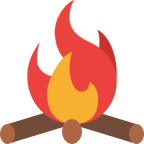
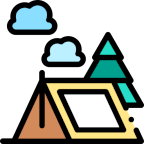
사이드바 시각 수정 — 캠프파이어 일러스트 교체 + 마스킹 해제 취소선 제거 (#82)
* 앱 홈 화면과 확장 사이드바 이미지를 캠프파이어 일러스트로 교체

두 자리는 아이콘 마크를 224/144px 로 확대해 쓰고 있었다. 마크는 16px 트레이까지
견디려고 단순화한 그림이라 100px 안팎으로 키우면 휑해 보인다. 화면용 일러스트를
별도 마스터(assets/source/ui-hero.png)로 두고 거기서 뽑는다 — 없으면 예전처럼
마크에서 뽑으므로 기존 동작은 유지된다.

사이드바의 보라 글로우(drop-shadow)는 실루엣 하나짜리 방패에 맞춘 것이라, 구름·
나무·텐트가 떨어져 있는 새 그림에선 요소마다 보라 테를 두른다. 그림 자체가 굵은
검정 아웃라인을 갖고 있어 글로우 없이 둔다.

곁들여:
- assets/source/** 를 패키징에서 제외했다. 마스터는 빌드 입력일 뿐 런타임이 읽지
  않는데 app.asar 안에 190KB 가 그대로 들어가고 있었다.
- gen-icons.js 를 돌리면 디자이너가 손으로 다듬은 트레이·확장 아이콘까지 자동
  축소본으로 덮인다는 걸 README 에 적어뒀다(이번에 두 번 밟았다).

* 사이드바에서 마스킹 해제한 구간의 취소선 제거

취소선이 "지워졌다" 로 읽혀서, 마스킹을 푼 게 아니라 그 값을 삭제한 것처럼 보인다는
지적이 있었다. 해제 상태는 원문이 그대로 보이는 상태이므로 정반대 신호다.

흐리게 처리하던 opacity 도 함께 풀었다 — 이 상태의 목적이 원문을 확인하는 것이라
잘 보여야 맞다. 색을 뺀 회색 칩만으로 마스킹된 구간(PII 빨강 / 인젝션 노랑)과
구분된다. 상태 자체는 aria-pressed 와 title 이 계속 알려준다.

---------

diff --git a/desktop/scripts/gen-icons.js b/desktop/scripts/gen-icons.js
@@ -21,6 +21,10 @@
  *                  macOS 템플릿 이미지는 알파만 읽고 RGB 를 버리므로 색은 무의미하다.
  *   tray-win.png   64x64 이상, 정사각. Windows 는 템플릿 반전을 안 해주므로 다크
  *                  작업표시줄에서 보이도록 흰색/컬러로 그린다.
+ *   ui-hero.png    224x224 이상, 정사각, RGBA. (선택)
+ *                  앱 홈 화면과 확장 사이드바에 크게 들어가는 일러스트. 아이콘 마크와
+ *                  달리 16px 까지 줄어들 일이 없으므로 디테일이 있어도 된다.
+ *                  없으면 아이콘 마크에서 대신 뽑는다.
  *
  * ── 애니메이션 ──────────────────────────────────────────────────────────────
  * 앱 아이콘(Dock/작업표시줄)은 macOS·Windows 모두 애니메이션을 지원하지 않는다 —
@@ -398,9 +402,17 @@ function main() {
   for (const s of [16, 32, 48, 128]) {
     writePng(path.join(REPO, 'extension', 'icons', `icon${s}.png`), markTrimmed, s);
   }
-  // 화면에 보이는 브랜드 이미지 — 표시 크기의 2배로 만든다(CSS 가 줄여서 그린다).
-  writePng(path.join(DESKTOP, 'assets', 'figma', 'home-hero.png'), markTrimmed, 224);        // 표시 104x107
-  writePng(path.join(REPO, 'extension', 'sidepanel', 'assets', 'agent-shield.png'), markTrimmed, 144); // 표시 72
+  // 화면에 보이는 브랜드 일러스트 — 표시 크기의 2배로 만든다(CSS 가 줄여서 그린다).
+  // 앱 홈 화면과 확장 사이드바에는 아이콘 마크가 아니라 별도 일러스트(ui-hero.png)를 쓴다:
+  // 이 두 자리는 100px 안팎으로 크게 보여주는 곳이라, 16px 트레이까지 견디려고 단순화한
+  // 마크를 확대하면 휑해 보인다. ui-hero.png 가 없으면 예전처럼 마크에서 뽑는다.
+  const heroFile = path.join(SRC, 'ui-hero.png');
+  const hero = fs.existsSync(heroFile) ? loadImage(heroFile, 'ui-hero.png', 224) : markTrimmed;
+  if (hero === markTrimmed) {
+    warnings.push('ui-hero.png 이 없어 홈/사이드바 일러스트도 아이콘 마크에서 뽑았습니다.');
+  }
+  writePng(path.join(DESKTOP, 'assets', 'figma', 'home-hero.png'), hero, 224);        // 표시 104x107
+  writePng(path.join(REPO, 'extension', 'sidepanel', 'assets', 'agent-shield.png'), hero, 144); // 표시 72
 
   // ── 트레이 (애니메이션 가능 — 프레임 폴더면 프레임별로 생성) ──
   const SPECS = [

diff --git a/extension/sidepanel/sidepanel.css b/extension/sidepanel/sidepanel.css
@@ -66,7 +66,10 @@ body {
   display: flex; flex-direction: column; align-items: center;
   justify-content: center; gap: 10px; text-align: center;
 }
-.agent-icon { width: 72px; height: auto; filter: drop-shadow(0 0 4px rgba(88, 76, 220, .55)); }
+/* 보라 글로우는 실루엣 하나짜리 방패 마크에 맞춘 것이었다. 지금 일러스트는 구름·나무·
+   텐트가 각각 떨어져 있어 drop-shadow 가 요소마다 보라 테를 두른다 — 그림 자체가 굵은
+   검정 아웃라인을 이미 갖고 있으므로 글로우 없이 둔다. */
+.agent-icon { width: 72px; height: auto; }
 .pill-row { display: flex; gap: 8px; margin-top: 2px; }
 .model-pill {
   display: inline-flex; align-items: center; gap: 8px;
@@ -174,7 +177,11 @@ body {
 .mark:focus-visible { outline: none; box-shadow: 0 0 0 2px var(--purple); }
 .mark.pii { background: var(--pii); color: #fff; }
 .mark.inj { background: var(--inj); color: var(--text); }
-.mark.kept { opacity: .5; text-decoration: line-through; background: var(--card); color: var(--muted); }
+/* 마스킹을 해제한 구간 — 원문이 그대로 보이는 상태다.
+   취소선은 쓰지 않는다: "지워졌다" 로 읽혀서, 해제가 아니라 삭제를 누른 것처럼 보인다.
+   흐리게 두지도 않는다 — 이 상태의 목적이 원문을 확인하는 것이라 오히려 잘 보여야 한다.
+   색을 뺀 회색 칩만으로 마스킹된 구간(빨강/노랑)과 충분히 구분된다. */
+.mark.kept { background: var(--card); color: var(--text); }
 
 /* ── combined(문서+프롬프트 동시 검토) 모드 — .diff 안에 두 블록을 쌓아 보여준다 ── */
 .combined-block { margin-bottom: 4px; }

diff --git a/desktop/assets/source/README.md b/desktop/assets/source/README.md
@@ -9,6 +9,11 @@ cd desktop && node scripts/gen-icons.js
 생성물(`build/icon.png`, `assets/icon.ico`, `extension/icons/*` 등)은 직접 수정하지 말 것 —
 다음 실행 때 덮어써진다. 고칠 게 있으면 여기 마스터를 고치고 다시 돌린다.
 
+> **주의 — 현재 커밋된 트레이·확장 아이콘은 스크립트 생성물이 아니다.**
+> 16·32px 처럼 작은 크기는 디자이너가 픽셀 단위로 손봐 내보낸 파일이 들어가 있어,
+> 스크립트를 돌리면 그게 자동 축소본으로 덮인다. 아이콘이 목적이 아니라면 실행 후
+> `git status` 를 보고 의도하지 않은 파일은 `git checkout --` 로 되돌릴 것.
+
 ---
 
 ## 그려야 하는 것 3개
@@ -36,6 +41,13 @@ cd desktop && node scripts/gen-icons.js
 - **흰색 또는 컬러.** Windows 는 템플릿 반전을 해주지 않아서, 검정으로 그리면
   Windows 11 기본 다크 작업표시줄에서 거의 보이지 않는다.
 - 16px 로 표시된다.
+
+### `ui-hero.png` — 앱 홈 화면 / 확장 사이드바 일러스트 (선택)
+- **224×224 이상**, 정사각, PNG-32
+- 아이콘이 아니라 **화면 안에 크게 들어가는 그림**이다(홈 104px, 사이드바 72px).
+  16px 까지 줄어들 일이 없으니 디테일이 있어도 된다 — 아이콘 마크처럼 단순화할 필요 없다.
+- 여백은 넣지 않는다. 표시 영역을 꽉 채우는 게 맞다(앱 아이콘의 80% 규칙은 Dock 전용).
+- 이 파일이 없으면 아이콘 마크에서 대신 뽑는다(예전 동작).
 
 ---
 
@@ -75,6 +87,8 @@ tray-win/frame-01.png   ← Windows 도 따로 만들 수 있다
 | `desktop/assets/tray-icon.png` `@2x` | 22 · 44 | macOS 메뉴바 |
 | `desktop/assets/tray-icon-win.png` `@2x` | 16 · 32 | Windows 작업표시줄 |
 | `extension/icons/icon{16,32,48,128}.png` | 16·32·48·128 | 확장 프로그램 |
+| `desktop/assets/figma/home-hero.png` | 224 | 앱 홈 화면 (표시 104×107) |
+| `extension/sidepanel/assets/agent-shield.png` | 144 | 확장 사이드바 (표시 72) |
 | `desktop/assets/tray-frames/*` | 위와 동일 | 애니메이션 프레임(폴더를 준 경우) |
 
 ---
